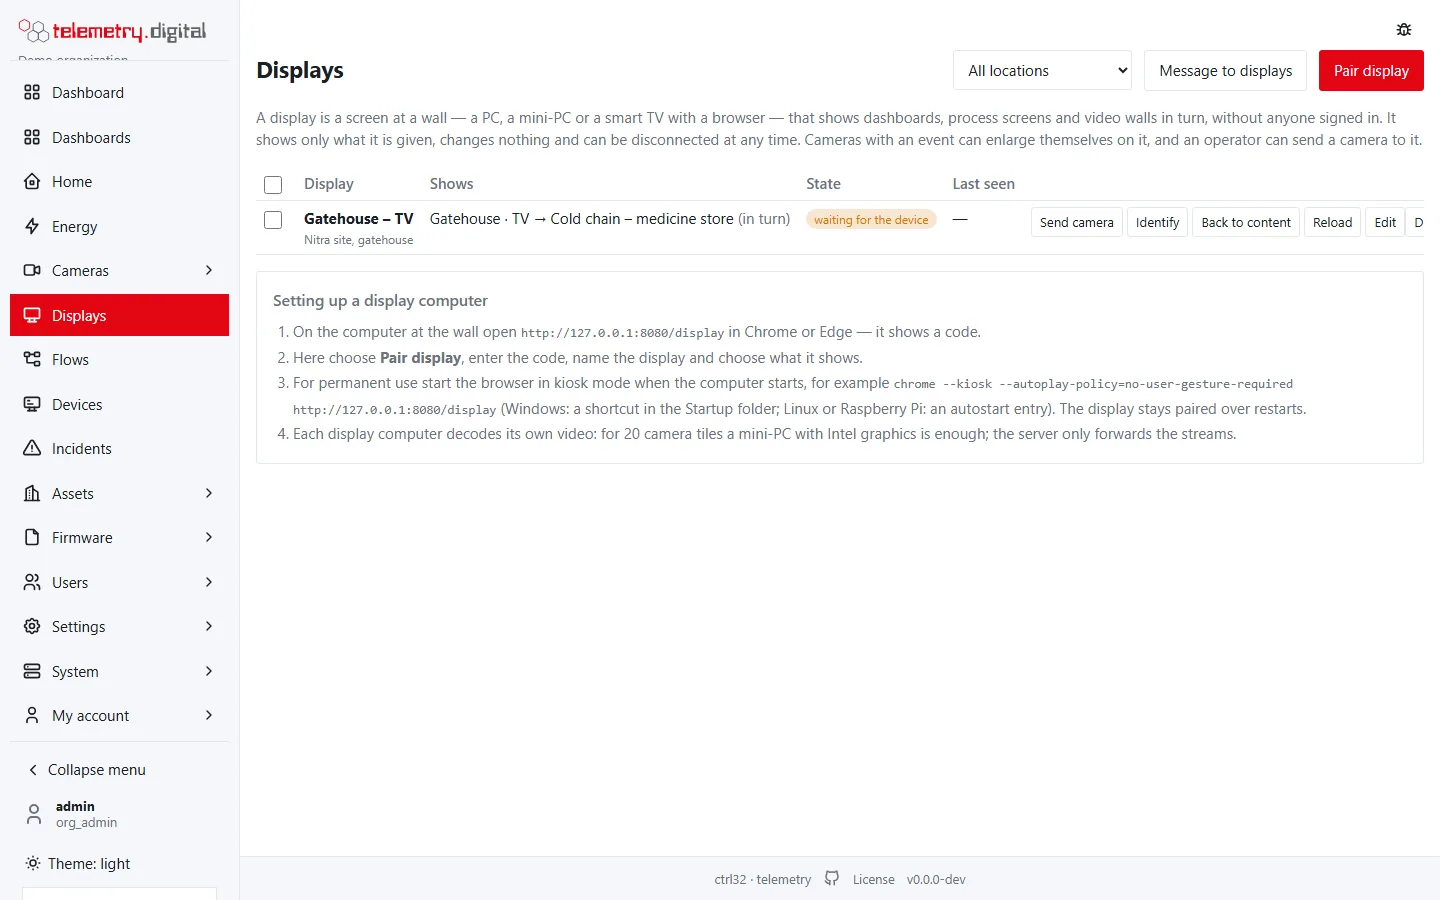
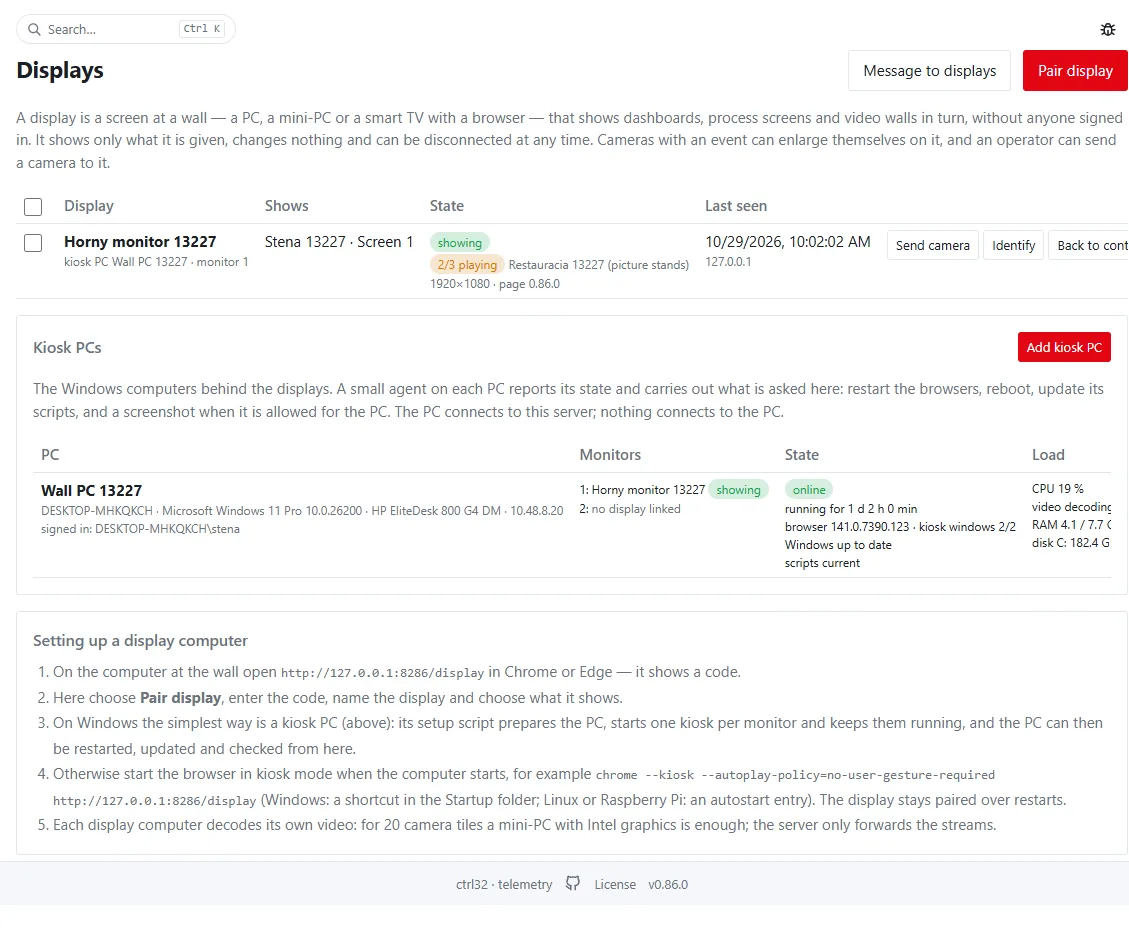
Remote management inside telemetry.digital: operating system, logs, kiosk PCs, display health (0.86.0)

diff --git a/docs/telemetry/administration/remote-management.md b/docs/telemetry/administration/remote-management.md
@@ -1,39 +1,110 @@
 ---
-title: Remote management of PCs
+title: Remote management of servers and kiosk PCs
 slug: remote-management
 sidebar_position: 7
-tags: [administration, remote-management, meshcentral]
+tags: [administration, remote-management, kiosk, operating-system, meshcentral]
 ---
 
-telemetry.digital manages **its own** settings remotely — through the web interface, the API and the Server page
-(updates, backups, restarts). It deliberately **does not control the operating system** of the PC it runs on: its
-privileged agent performs only a closed list of operations.
+The everyday remote work happens **inside telemetry.digital**: the web interface and the API maintain the server —
+updates of telemetry.digital and of the operating system, reboot, logs, health — and the Windows PCs behind the
+displays (*kiosk PCs*). Every operation needs a permission and a reason and is written to the [audit trail](audit.md).
+There is still no shell and no arbitrary command anywhere: the server agent and the kiosk agent perform closed lists of
+operations.
 
-Remote desktop, a terminal, files and operating-system updates of the PCs at customers' sites are the job of a
-separate tool running next to it. For this we use **MeshCentral** (open source, Apache-2.0), self-hosted:
+**MeshCentral** (open source, self-hosted) stays as the **emergency path** — a remote desktop when something is broken
+that these operations cannot fix. It is opened from the interface, every opening is audited with its reason, and
+MeshCentral asks for its own sign-in with two factors.
 
-- On each managed PC runs the small MeshCentral agent (a Windows service or a Linux daemon). It connects **out** to
-  the MeshCentral server over HTTPS — no open port and no VPN at the customer's site.
-- Remote desktop in the browser, terminal (PowerShell, cmd, bash), file transfer, processes, services, event log and
-  Wake-on-LAN.
-- Every remote session is in the server's event log: who, which PC, when.
+## What is in telemetry.digital
 
-## Adding a customer's PC
+| Task | Where | Permission |
+|:---|:---|:---:|
+| Update telemetry.digital (signed releases, backup first, rollback) | System → Updates | `system.admin` |
+| Check and install the operating system updates, with the live log | System → Operating system | `system.admin` |
+| Reboot the server (in one minute, can be cancelled) | System → Operating system | `system.admin` |
+| Health: software RAID, network links, disks, reboot required | System → Server, Operating system | `system.admin` |
+| Logs of the service, the agent, the proxy, the database, the VPN, the tunnel, the kernel | System → Logs | `system.admin` |
+| Camera tiles playing on each display | Displays | `display.control` |
+| Kiosk PCs: setup, state, restart the browsers, reboot, update the scripts | Displays → Kiosk PCs | `display.manage` |
+| Screenshot of a kiosk PC (off until allowed for the PC) | Displays → Kiosk PCs | `display.screenshot` |
+| Emergency remote desktop of the server or a kiosk PC | System → Server, Displays | `system.admin`, `display.manage` |
+
+The operating system pages need a Linux server with apt (Debian, Ubuntu); on Windows they say so — install the Windows
+updates with Windows Update. Details of the server pages: [Server, backups and updates](server.md#operating-system).
+
+## Kiosk PCs
+
+A kiosk PC is the Windows 10/11 computer behind one or more displays: one Chrome kiosk per monitor, each paired as its
+own display.
+
+1. **Displays → Kiosk PCs → Add kiosk PC**: the name, the number of monitors and the address of the server as the PC
+   reaches it (in a local network often the local address, for example `http://10.0.0.5:8080`). The credential of the
+   PC is shown once; it is inside the setup script.
+2. **Download setup script** and run it on the PC in an elevated PowerShell:
+   `powershell -ExecutionPolicy Bypass -File .\setup-kiosk-<name>.ps1`. Parameters: `-KioskUser` (default `kiosk`),
+   `-ResetPassword`, `-ProfileDir` to keep the browser profiles of an older setup (so its displays stay paired) and
+   `-ReplaceTask` to switch an older launcher off.
+3. Restart the PC: it signs in as the kiosk user and each monitor shows a pairing code. Pair each monitor with **Pair
+   display**, then link the displays to the monitors under **Edit** of the PC. Delete the script afterwards.
+
+![Displays → Kiosk PCs, Set up: the credential shown once, the steps and Download setup script](img/kiosk-setup.webp)
+
+The setup script prepares the PC: a standard kiosk user with automatic logon (its password is generated on the PC and
+never sent anywhere), power settings that never sleep, no lock screen, notifications or tips, Windows Update installing
+and restarting at 03:00, and browser policies for unattended video. It installs two readable PowerShell scripts:
+
+- **the launcher** (at the kiosk user's logon): one Chrome kiosk per monitor with its own profile (the top left
+  monitor first), started again within 30 seconds when it closes; the taskbar stays hidden;
+- **the agent** (a SYSTEM task): every 15 seconds it reports the PC and performs what was asked on the Displays page —
+  *report now*, *restart the browsers*, *reboot*, *update the scripts*, *screenshot*. Nothing else; it never runs text
+  from the server. Only SYSTEM and administrators can change the scripts or read the credential.
+
+The PC connects to the server; nothing connects to the PC.
+
+![Displays: a display with 2/3 camera tiles playing and the camera whose picture stands, and a kiosk PC online with its Windows, browser, kiosk windows, Windows updates, scripts and load](img/kiosk-pcs.webp)
+
+| Column | Content |
+|:---|:---|
+| PC | the name, the computer name, Windows, model and address, the signed-in user |
+| Monitors | the display on each monitor and whether it shows |
+| State | online or since when offline, running time, the browser and its kiosk windows, pending Windows updates, a pending restart, whether the scripts are current, the operation in progress and the last result |
+| PC load | processor, video decoding, memory and disk |
+
+**Edit** sets the name, the monitors, the server address, the displays on the monitors (a display started by the
+launcher suggests its PC and monitor), the MeshCentral node and whether screenshots are allowed. **Replace credential**
+stops the old credential at once; the PC reports again after its setup script ran with the new one. **Remove** locks
+the agent out; the displays stay paired.
+
+![Edit kiosk PC: the name, the monitors with their displays, the server address, the MeshCentral node, Allow screenshots of this PC and a reason](img/kiosk-edit.webp)
+
+### Screenshots
+
+A screenshot shows the whole screen, also camera pictures without privacy masks. It is therefore off for every PC
+until an administrator with `display.screenshot` allows it for that PC with a reason. Each screenshot needs
+`display.screenshot` and a reason and is in the audit trail; the picture goes from the PC to the server's memory and
+is handed once to the person who asked for it — it is never stored.
+
+## Emergency remote desktop (MeshCentral)
+
+**System → Server → Remote management**: the MeshCentral address and the node of this server (from the device's
+details in MeshCentral, or `gotonode=` in its address bar). A kiosk PC has its own node (**Edit** of the PC).
+**Emergency remote desktop** asks for a reason and opens the device in MeshCentral in a new tab.
+
+MeshCentral is still needed for a server or PC that does not start its services, for network repair on the machine
+itself, for BIOS or hardware questions, for installing on a new PC remotely, and for anything outside the operations
+above.
+
+### Adding a PC to MeshCentral
 
 1. MeshCentral → *My Devices* → *Add Device Group* (for example the customer's name), type *Manage using a software
    agent*.
-2. *Add Agent* → Windows or Linux → download the installer (it carries the server address and the group) and run it on
-   the customer's PC as administrator → *Install*.
-3. The PC appears in the group; *Desktop*, *Terminal* and *Files* work at once. Set the group's *User Consent* if the
-   customer wants to confirm every remote session.
+2. *Add Agent* → Windows or Linux → download the installer and run it on the PC as administrator → *Install*.
+3. The PC appears in the group. Copy its node id into telemetry.digital (server or kiosk PC). Set the group's *User
+   Consent* if the customer wants to confirm every remote session.
 
-## Security
+### Security
 
-- Only accounts created by an administrator; two-factor sign-in required; 10 failed sign-ins in 10 minutes lock the
-  address for 30 minutes.
+- MeshCentral: only accounts created by an administrator, two-factor sign-in, 10 failed sign-ins in 10 minutes lock the
+  address for 30 minutes; every session is in its event log.
+- telemetry.digital: opening the remote desktop is audited with the reason; the link carries no credential.
 - Remove a PC from its group when the contract ends; the agent then has no access.
-
-!!! note "Your own MeshCentral"
-    If you run your own telemetry.digital server on Linux, the same setup can run next to it: MeshCentral listens on
-    the machine itself and the server's HTTPS front end serves it under its own host name. The host name must be a
-    DNS-only record (not proxied by a CDN), because the agents check the server's own certificate.

diff --git a/docs/telemetry/administration/server.md b/docs/telemetry/administration/server.md
@@ -134,6 +134,36 @@ the object counting detector with their licences. Three ways to use it:
 The detector installation (see [Counting with cameras](../object-counting/cameras.md#install-the-detector)) uses the
 parts of an uploaded package or of the mirror when they are there.
 
+## Operating system
+
+**System → Operating system** (Linux servers with apt) shows how many updates of the operating system are available
+and how many of them are security updates, when the package lists were downloaded, whether a reboot is required and
+for which packages, and the health of the machine: software RAID (degraded, rebuilding), the network links and the
+disks' own health (when smartmontools is installed).
+
+- **Check for updates** downloads the package lists and lists what can be upgraded; nothing is installed.
+- **Install updates** installs every upgrade without questions — configuration files you changed are kept — in its own
+  system unit, so it finishes even when services, the agent included, restart. The page shows its log. Services that
+  use upgraded libraries may restart for a moment; a new kernel needs a reboot.
+- **Reboot server** asks for a reason and a confirmation and reboots in one minute; until then the reboot can be
+  cancelled. It is refused while an installation, an update of telemetry.digital, a backup or a restore test runs.
+  The page waits and reloads when the server is back.
+
+Every request and every result is in the [audit trail](audit.md); a failed installation is mailed to the server
+administrators. The history lists the last jobs.
+
+![System → Operating system: the updates available with the security ones, the package lists, reboot required and the health with RAID, network and disks](img/os-updates.webp)
+
+![System → Operating system after the installation: its log, reboot required for libssl3t64 and the history](img/os-after-upgrade.webp)
+
+**System → Logs** shows the last lines of the logs of the service, the server agent, the reverse proxy, the database,
+the VPN, the Cloudflare tunnel and the kernel, with a filter and *Follow* for new lines.
+
+![System → Logs: the log of the service with the lines count, Follow and a filter](img/logs.webp)
+
+For an emergency the **Server** page has a *Remote management* card with the MeshCentral address and the node of this
+server, and the *Emergency remote desktop* button; see [Remote management](remote-management.md).
+
 ## E-mail (SMTP)
 
 *System → Server → E-mail (SMTP)* sets the outgoing e-mail used for alarm notifications, scheduled reports, password

diff --git a/docs/telemetry/dashboards/displays.md b/docs/telemetry/dashboards/displays.md
@@ -64,16 +64,21 @@ whose cameras lie outside their groups.
 
 | Column | Content |
 |---|---|
-| Display | the name, the location and an *alarms* badge when it enlarges cameras with events |
+| Display | the name, the location, an *alarms* badge when it enlarges cameras with events, the kiosk PC and monitor it runs on |
 | Shows | the items in turn, for example *Line 1 → Line 2 (in turn)* |
-| State | *waiting for the device* (paired but the credential not collected yet), *showing*, *not showing*; the current message and command |
+| State | *waiting for the device* (paired but the credential not collected yet), *showing*, *not showing*; how many camera tiles play (for example *39/39 playing*) and the cameras that do not, the screen size and the page version; the current message and command |
 | Last seen | the last contact and the device's address |
 | — | the command buttons, and **Edit** and **Disconnect** for `display.manage` |
 
-The page refreshes every 10 seconds while no dialog is open. **Disconnect** asks for a reason; the display returns to
-the pairing screen and must be paired again.
+Every 30 seconds a display reports each camera tile: *playing* (the picture moved on in the last 10 seconds), *picture
+stands*, *connecting*, *camera offline* or *cannot play* (the browser does not support the camera's codec). Only
+cameras the display may show are reported, and a camera is named only to users who may see it.
 
-![The Displays page: a paired display with what it shows and its state, the buttons Send camera, Identify, Back to content, Reload and Edit, the location filter, Message to displays and Pair display, and the steps for setting up a display computer](img/displays.webp)
+The page refreshes every 10 seconds while no dialog is open. **Disconnect** asks for a reason; the display returns to
+the pairing screen and must be paired again. Below the list, **Kiosk PCs** (for `display.manage`) shows the Windows PCs
+behind the displays with their state and operations — see [Remote management](../administration/remote-management.md#kiosk-pcs).
+
+![The Displays page: a display with 2/3 camera tiles playing and the camera whose picture stands, the kiosk PC it runs on, and the Kiosk PCs section](img/displays.webp)
 
 ## Operator commands
 
